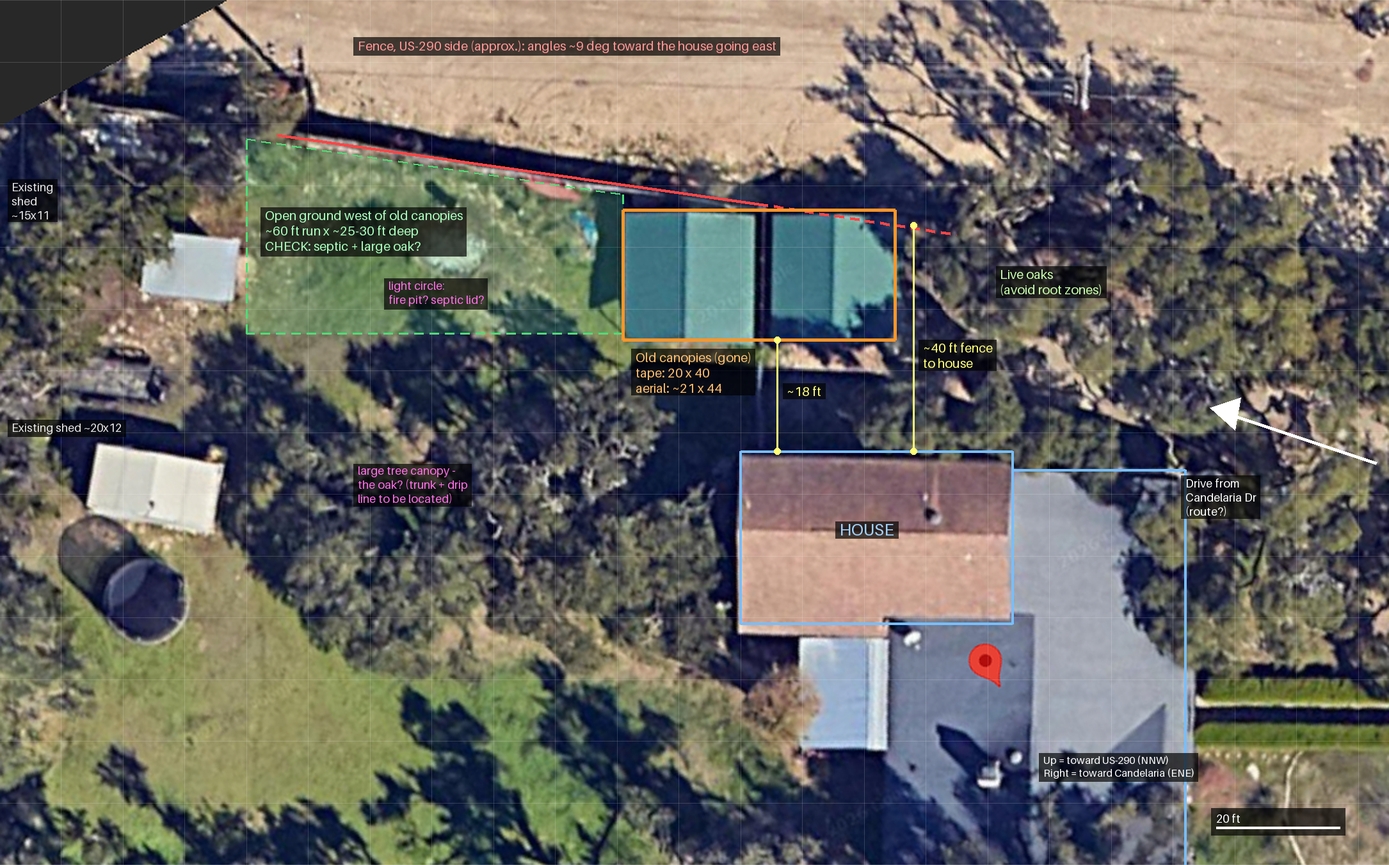
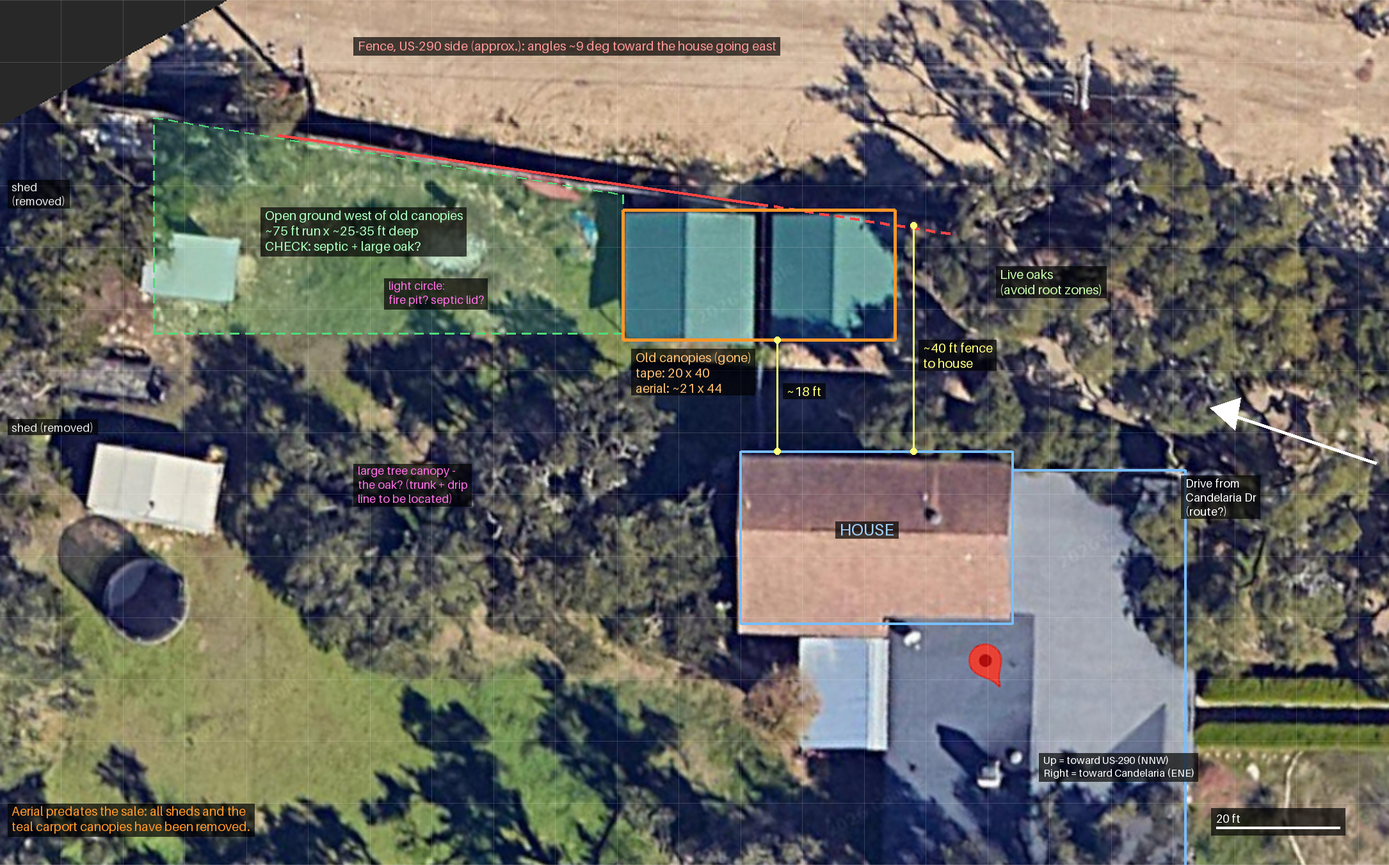
Record that all sheds and canopies are gone; add site notes
The aerial predates the sale: the previous owners removed every shed and the
teal carport canopies. Maps now mark them removed, the open strip along the
fence extends further west, and shots 5-6 tie a new fence mark F3 to the
house instead of the old shed. site/notes.md keeps the running list of known
facts, constraints and open questions.

Claude-Session: https://claude.ai/code/session_018cHe8XhgQq9yhHiRQpWsrY

diff --git a/tools/measure_plan.py b/tools/measure_plan.py
@@ -19,9 +19,13 @@ VIEW = (55, 100, 275, 250)
 
 # Roofline estimates from the aerial (walls sit ~1-2 ft inside these).
 A, B, C = (180, 168), (224, 168), (180, 196)
-F1, F2 = (180, 127.6), (224, 134.4)
+F1, F2, F3 = (180, 127.6), (224, 134.4), (90, 114.7)
 PAD = [(161, 129), (205, 129), (205, 150), (161, 150)]
-SHED_E = [(83, 133), (99, 133), (99, 144), (83, 144)]
+# Removed since the aerial was taken; outlined so the photo still makes sense.
+REMOVED = [
+    [(83, 133), (99, 133), (99, 144), (83, 144)],
+    [(74, 167), (96, 167), (96, 181), (74, 181)],
+]
 
 
 def marker(plan: Plan, pt, text: str, fill, r: int = 16) -> None:
@@ -42,15 +46,17 @@ def main() -> None:
     plan = Plan(view=VIEW)
     plan.grid()
 
-    # Context: fence, house, old pad, small shed E.
+    # Context: fence, house, old pad, removed sheds.
     plan.line([(100, 116.1), (183, 128)], RED, width=4)
     plan.line([(183, 128), (232, 135.6)], RED, width=4, dash=True)
     plan.poly([A, B, (224, 196), C], BLUE, width=3)
     plan.line([(224, 171), (252, 171), (252, 230)], BLUE, width=3)
     plan.poly(PAD, ORANGE, width=4)
     plan.label(170, 137, "old pad", fill=(255, 190, 110), size=20)
-    plan.poly(SHED_E, WHITE, width=3)
-    marker(plan, (91, 138.5), "E", WHITE, r=14)
+    for outline in REMOVED:
+        plan.poly(outline, (200, 200, 200), width=2, dash=True)
+    plan.label(84, 145, "removed", fill=(200, 200, 200), size=16)
+    plan.label(75, 182, "removed", fill=(200, 200, 200), size=16)
 
     # 1-2 baseline along the house walls (calibration).
     plan.label(199, 172, "1", fill=BLUE, size=24)
@@ -62,9 +68,10 @@ def main() -> None:
     plan.label(172, 121.5, "F1", fill=(255, 150, 150), size=20)
     plan.label(226, 129, "F2", fill=(255, 150, 150), size=20)
 
-    # 5 shed E to fence, 6 shed E to old pad along the strip.
-    shot(plan, (91, 133), (91, 114.9), "5", at=(92.5, 117.5))
-    shot(plan, (99, 140), (161, 140), "6", at=(126, 141.5))
+    # 5-6 far-west fence mark F3, tied to A and to F1.
+    shot(plan, A, F3, "5", at=(118, 136), dash=True)
+    shot(plan, F1, F3, "6", at=(132, 114))
+    plan.label(84, 107, "F3", fill=(255, 150, 150), size=20)
 
     # 7-8 old pad corners from A and B (bucket on each corner).
     shot(plan, A, PAD[3], "7", at=(166, 156), dash=True)

diff --git a/tools/site_plan.py b/tools/site_plan.py
@@ -111,9 +111,9 @@ def main() -> None:
     plan.label(118, 101, "Fence, US-290 side (approx.): angles ~9 deg toward the house going east", fill=(255, 150, 150))
 
     # Open ground west of the old canopies: only usable once septic + oak are located.
-    zone = [(100, 117.5), (161, 126.5), (161, 149), (100, 149)]
+    zone = [(85, 114), (161, 126.5), (161, 149), (85, 149)]
     plan.poly(zone, GREEN, fill=(80, 220, 120, 50), width=3, dash=True)
-    plan.label(103, 128.5, "Open ground west of old canopies\n~60 ft run x ~25-30 ft deep\nCHECK: septic + large oak?", fill=(170, 255, 190))
+    plan.label(103, 128.5, "Open ground west of old canopies\n~75 ft run x ~25-35 ft deep\nCHECK: septic + large oak?", fill=(170, 255, 190))
 
     # Unknowns to confirm with the owner.
     plan.label(123, 140, "light circle:\nfire pit? septic lid?", fill=MAGENTA, size=18)
@@ -132,8 +132,9 @@ def main() -> None:
     plan.dim((186, 150), (186, 168), "~18 ft", at=(187.5, 157))
 
     plan.label(222, 138, "Live oaks\n(avoid root zones)", fill=(200, 255, 170))
-    plan.label(62, 124, "Existing\nshed\n~15x11", fill=(230, 230, 230), size=18)
-    plan.label(62, 163, "Existing shed ~20x12", fill=(230, 230, 230), size=18)
+    plan.label(62, 124, "shed\n(removed)", fill=(230, 230, 230), size=18)
+    plan.label(62, 163, "shed (removed)", fill=(230, 230, 230), size=18)
+    plan.label(62, 225, "Aerial predates the sale: all sheds and the\nteal carport canopies have been removed.", fill=ORANGE, size=20)
 
     # Drive approach from Candelaria Dr (route under the oaks unconfirmed).
     plan.line([(283, 170), (259, 162)], WHITE, width=5)

diff --git a/site/measurements.md b/site/measurements.md
@@ -12,14 +12,14 @@ use them to place everything on a to-scale plan.
 | **A** | NW corner of the house: the west end of the north wall. Use the wall corner at the ground, not the roof eave. |
 | **B** | East end of the north wall on the brown-roofed section, where the wall steps back to the newer section. If it doesn't step, use the house's NE corner. |
 | **C** | South end of the house's west wall: the SW corner of the brown-roofed section, next to the metal-roofed room. |
-| **E** | The small shed nearest the fence in the NW yard. |
 | **F1, F2** | Tape marks you put on the fence during shots 3 and 4. |
+| **F3** | A tape mark on the fence at the far west end of the open strip, about where the small shed used to be (all the sheds are gone now). |
 
 ## How to shoot
 
 - The laser measures from its back edge (check the setting). Rest the back edge on the point.
 - **Square off a wall:** lay the laser's back flat against the wall and the beam shoots straight out from it.
-- The beam needs something to hit. Walls, trunks, sheds and the fence all work.
+- The beam needs something to hit. Walls, trunks and the fence all work.
   For a spot on open ground (septic lid, field corner, pad corner), set a bucket
   or box on it. Shoot its near side and add half its width.
 - For trunk shots, just hit the near face of the trunk. I'll add the radius from the girth (shot 11).
@@ -37,10 +37,10 @@ use them to place everything on a to-scale plan.
 | 2 | A → C | along the west wall | ~28 ft | |
 | 3 | A → fence | square off the north wall; tape the spot = **F1** | ~40 ft | |
 | 4 | B → fence | square off the north wall; tape the spot = **F2** | ~34 ft | |
-| 5 | E → fence | square off the shed's north wall | ~18 ft | |
-| 6 | E → old pad | square off the shed's east wall to the pad's west edge | ~62 ft | |
-| 7 | A → old pad SW corner | bucket on the corner (skip if the pad isn't visible anymore) | ~26 ft | |
-| 8 | B → old pad SE corner | bucket on the corner (skip if the pad isn't visible anymore) | ~26 ft | |
+| 5 | A → F3 | aim the dot at the tape mark | ~105 ft | |
+| 6 | F1 → F3 | along the fence; bucket or helper at the far end | ~91 ft | |
+| 7 | A → old pad SW corner | bucket on the corner (skip if you can't find the old footprint) | ~26 ft | |
+| 8 | B → old pad SE corner | bucket on the corner (skip if you can't find the old footprint) | ~26 ft | |
 | 9 | A → big oak trunk | hit the trunk face | ? | |
 | 10 | C → big oak trunk | hit the trunk face | ? | |
 | 11 | Big oak girth | tape around the trunk at 4.5 ft off the ground | ? | |
@@ -54,5 +54,8 @@ use them to place everything on a to-scale plan.
 
 ## Also note
 
+- Check your closing papers first, since they may answer some of these outright.
+  A **survey** shows the property lines and easements. A **septic inspection report**
+  or permit often has a sketch of where the tank and field are.
 - Septic type: a conventional drain field (buried lines) or aerobic with spray heads?
 - Is the fence on the property line, or does the lot extend past it?

diff --git a/site/notes.md b/site/notes.md
@@ -1,0 +1,46 @@
+# Site notes: 8400 Candelaria Dr (78737)
+
+This is the running record of what we know about the site. Measured facts go here
+as they come in.
+
+## Status
+
+- The house was recently purchased.
+- The aerial (`8400_candelaria_78737.png`) **predates the sale**. Before selling,
+  the previous owners removed **all the sheds** and the **teal-roofed carport
+  canopies**, so nothing in the north and west yards shown on the aerial is still
+  standing.
+
+## Goal
+
+- Build a shed first, possibly combined with a 2-car covered parking structure.
+- Put it about where the old canopies stood (tape-measured at **20 × 40 ft**), but larger.
+
+## Known constraints
+
+| Constraint | Status |
+|---|---|
+| **Septic system** in the back yard | Location unknown: shots 13–14, or the septic report from closing |
+| **Large oak** in the back yard | Trunk, size and drip line unknown: shots 9–12 |
+| **Live oaks** east of the old canopy site | Avoid root zones; trunks not located yet (shot 15) |
+| **Fence**, US-290 side | Runs ~9° to the house and gets closer going east; on the property line? (shots 3–6, survey) |
+| **House** north wall | ~18 ft south of the old canopy footprint (aerial); probably the pull-in aisle |
+| **Drive** from Candelaria Dr | Route and clearance into the site to be confirmed (shots 16–17) |
+
+## Map frame
+
+- The aerial is rotated 29° so the house and Candelaria Dr sit square to the frame.
+  Coordinates are in feet: +x runs toward Candelaria Dr (ENE), +y runs away from US-290 (SSE).
+- The scale comes from the map's 20 ft bar (4.8 px/ft). It agrees with the 20 × 40
+  tape measurement to within about 10%, and the zoomed-out view gives the same
+  house size (~44 × 28 ft roof).
+- The roof edges on the aerial sit about 1–2 ft outside the walls.
+
+## Open questions
+
+- Where are the septic tank and field, and what type of system is it (conventional or aerobic)?
+- Which oak is "the large oak", and how big is it?
+- Is the fence on the property line? Does the lot extend past it, or did the US-290 work take any of it?
+- Is the property inside Austin city limits or in unincorporated county? That decides permits, setbacks and tree rules.
+- What should "larger" hold: 2 cars plus a shed of what size, and anything else?
+- Paperwork from closing to dig out: the survey/plat, the septic inspection report or permit, and the title commitment (for easements).
